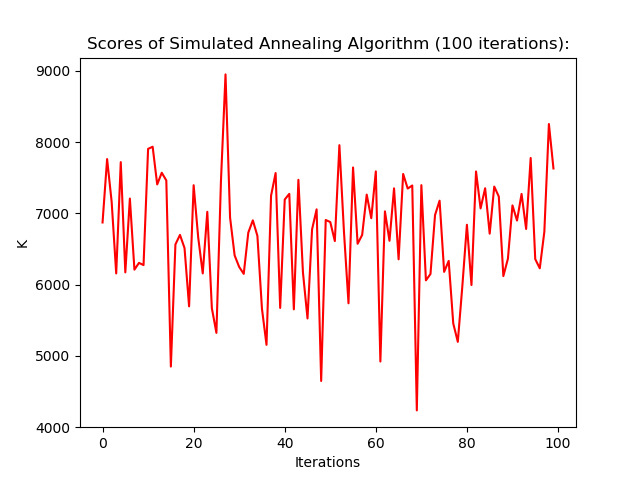
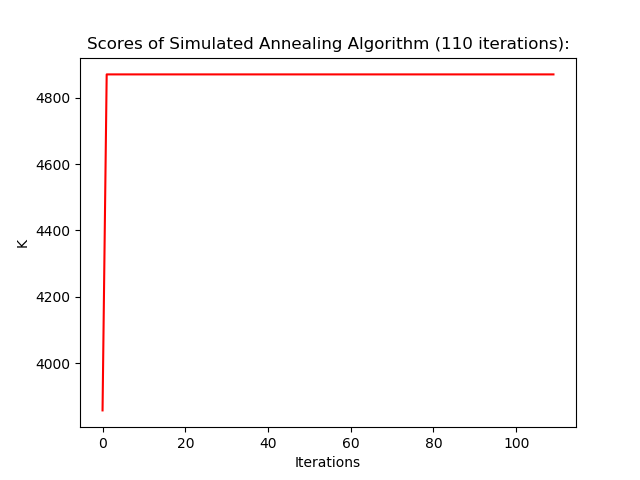
sim ann beetje gedaan

diff --git a/code/algorithms/simulated_annealing.py b/code/algorithms/simulated_annealing.py
@@ -8,19 +8,23 @@ import copy
 from .greedy import run_greedy
 from .hill_climber import run_hill_climb_loop
 
+from code.visualisation.plot import plot_scores
+
 
 def run_simulated_annealing(algorithm_instance, regio):
     sim_ann = SimulatedAnnealing(algorithm_instance)
-    State, K = sim_ann.run_sim_ann()
+    State, K, sim_list = sim_ann.run_sim_ann()
+    plot_scores(sim_list, sim_ann.iterations)
     return State, K
 
 
 class SimulatedAnnealing:
     def __init__(self, algorithm_instance):
         self.algorithm_instance = algorithm_instance
-        self.T0 = 10
-        self.T = 100
-        self.iterations = 100
+        self.T0 = 110
+        self.T = 120
+        self.iterations = 110
+        self.sim_list = []
 
     def update_temperature(self):
         self.T = float(self.T - (self.T0 / self.iterations))
@@ -57,9 +61,12 @@ class SimulatedAnnealing:
         
         for _ in range(self.iterations):
             new_state = run_hill_climb_loop(copy.deepcopy(best_state), self.algorithm_instance.max_tijd_traject, self.algorithm_instance.station_objects)
+            score = new_state.calculate_score()
             # print(f"score for current best_state: {best_state.calculate_score()}")
             # print(f"score for new state: {new_state.calculate_score()}")
             # breakpoint()
             best_state = self.state_compare(new_state, best_state)
+            self.sim_list.append(score)
+
         K = best_state.calculate_score()
-        return best_state, K
+        return best_state, K, self.sim_list

diff --git a/experiment.py b/experiment.py
@@ -10,7 +10,6 @@ from code.helpers import read_csv_file, load_algorithms_dict
 from code.classes.algorithm import Algorithm
 
 from code.visualisation.hist import make_histogram
-from code.visualisation.plot import plot_scores
 
 
 """
@@ -19,6 +18,10 @@ Experiment script.
 Gebruik de README.md als gebruiksaanwijzing!
 """
 
+
+max_trajecten_holland = 7
+max_tijd_traject_holland = 120
+alle_connecties_holland = 28
 
 
 if __name__ == "__main__":
@@ -51,9 +54,9 @@ if __name__ == "__main__":
 
     # Run het experiment dat de gebruiker aangeeft
     if sys.argv[1].lower() == 'exp1':
-        alg_object1 = Algorithm('bizzey', stations_data, connections_data)
+        alg_object1 = Algorithm('bizzey', stations_data, connections_data, max_trajecten_holland, max_tijd_traject_holland, alle_connecties_holland)
         alg_object1.create_station_objects()
-        alg_object2 = Algorithm('rustaaahg', stations_data, connections_data)
+        alg_object2 = Algorithm('rustaaahg', stations_data, connections_data, max_trajecten_holland, max_tijd_traject_holland, alle_connecties_holland)
         alg_object2.create_station_objects()
 
         # Definieer de scores voor de twee cases van experiment 1
@@ -91,8 +94,6 @@ if __name__ == "__main__":
             make_histogram(scores_list, N, 'sa')
         else:
             pass
-
-        plot_scores(scores_list, N)
 
     else:
         print("Geen experiment met die naam gevonden!")

diff --git a/code/algorithms/randalg.py b/code/algorithms/randalg.py
@@ -11,6 +11,11 @@ from classes.dienstregeling import Regeling
 Implementatie van het random algoritme.
 """
 
+def set_begin_stations_bizzey():
+    pass
+
+def set_begin_stations_rustaaahg():
+    pass
 
 # Eenmalige run van het random algoritme
 def run_randalg(algorithm_instance, regio):
@@ -83,7 +88,17 @@ def run_randalg(algorithm_instance, regio):
 
 
 def run_randalg_bizzey(algorithm_instance: Regeling):
+
+    set_begin_stations_bizzey()
+
+    run_randalg()
+
     pass
 
 def run_randalg_rustaaahg(algorithm_instance: Regeling):
+
+    set_begin_stations_rustaaahg()
+
+    run_randalg()
+
     pass

diff --git a/main.py b/main.py
@@ -7,7 +7,6 @@ from code.helpers import read_csv_file, load_algorithms_dict, export_output
 from code.classes.algorithm import Algorithm
 
 from code.visualisation.hist import make_histogram
-from code.visualisation.plot import plot_scores
 
 
 """
@@ -31,7 +30,7 @@ max_trajecten_nationaal = 20
 max_tijd_traject_holland = 120
 max_tijd_traject_nationaal = 180
 alle_connecties_holland = 28
-alle_connecties_nationaal = 89 
+alle_connecties_nationaal = 89
 
 if __name__ == "__main__":
 
